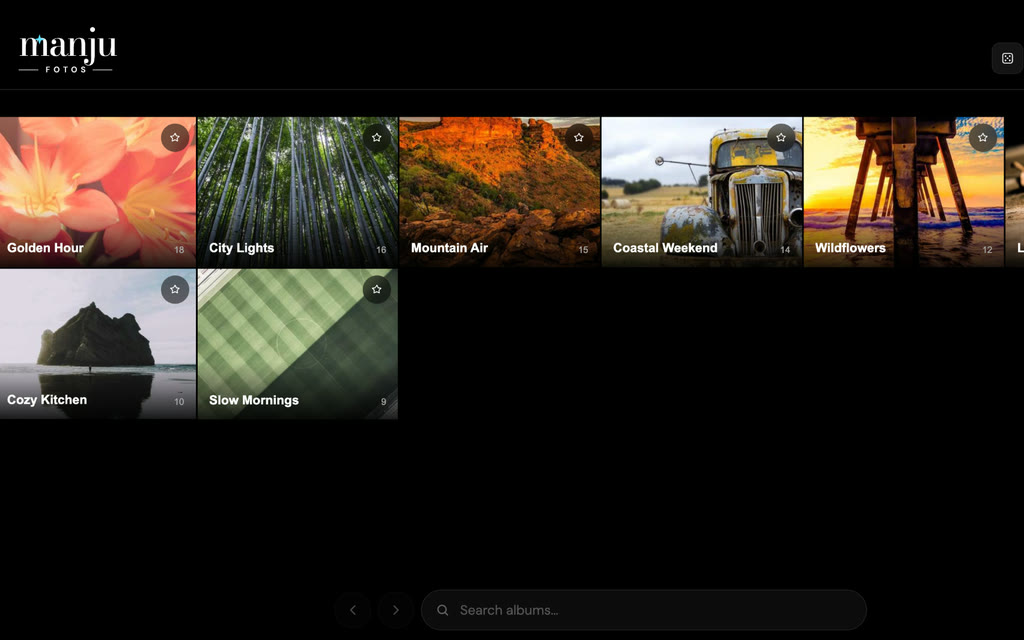
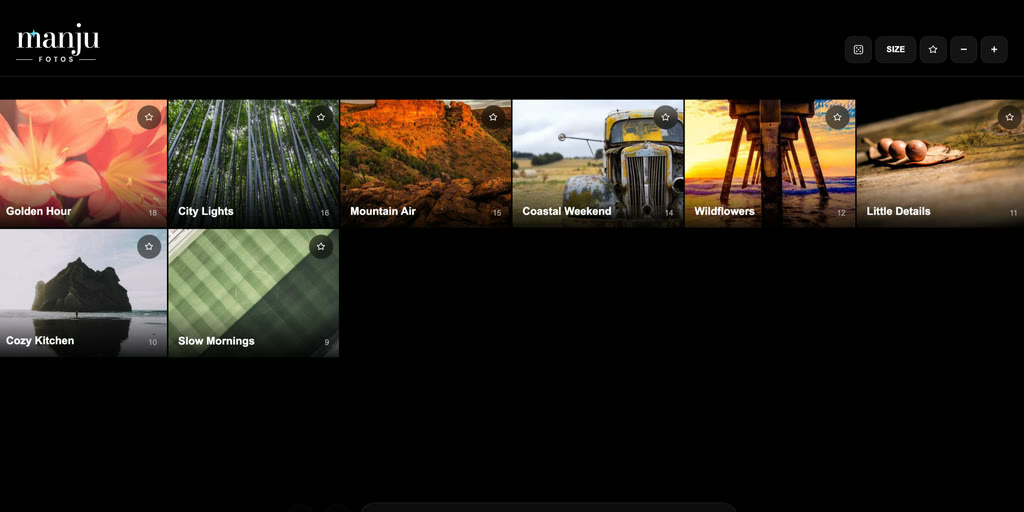
Feature fotos alongside the other big project cards.

diff --git a/projects.html b/projects.html
@@ -74,6 +74,17 @@
       </div>
     </a>
 
+    <a class="game-feature" href="https://manjumedia.vercel.app" target="_blank" rel="noopener">
+      <div class="game-feature-info">
+        <span class="game-name">fotos</span>
+        <p>A private photo and video gallery that installs like an app, hidden behind a passcode lock screen.</p>
+        <span class="game-feature-link">manjumedia.vercel.app →</span>
+      </div>
+      <div class="game-feature-media">
+        <img src="images/fotos-demo.jpg" alt="fotos album grid" />
+      </div>
+    </a>
+
     <div class="project-grid">
 
       <div class="project-card-wrap">
@@ -209,35 +220,6 @@
           </ul>
         </div>
         <div class="project-footer"></div>
-      </div>
-
-      <div class="project-card-wrap">
-        <button type="button" class="project-card" aria-haspopup="dialog">
-          <div class="project-thumb">
-            <img src="images/fotos-demo.jpg" alt="" />
-          </div>
-          <div class="project-body">
-            <div class="project-top">
-              <span class="project-name">fotos</span>
-              <span class="project-year">2026</span>
-            </div>
-            <p class="project-desc">A private photo and video gallery that installs like an app, hidden behind a passcode lock screen.</p>
-            <div class="project-tags">
-              <span>JavaScript</span><span>Cloudflare Workers</span><span>R2</span><span>Node.js</span><span>PWA</span>
-            </div>
-          </div>
-        </button>
-        <div class="project-learn" hidden>
-          <ul>
-            <li>A Cloudflare Worker serves the media out of an R2 bucket, with range requests so videos stream and seek</li>
-            <li>Passcode login with sessions, plus a fallback for browsers that block cross-site cookies</li>
-            <li>Node scripts using sharp to generate thumbnails and upload new photos to R2</li>
-            <li>A filmstrip you can drag or scrub with the mouse wheel, installable to the home screen as a PWA</li>
-          </ul>
-        </div>
-        <div class="project-footer">
-          <a class="project-live" href="https://manjumedia.vercel.app" target="_blank" rel="noopener">manjumedia.vercel.app →</a>
-        </div>
       </div>
 
     </div>
